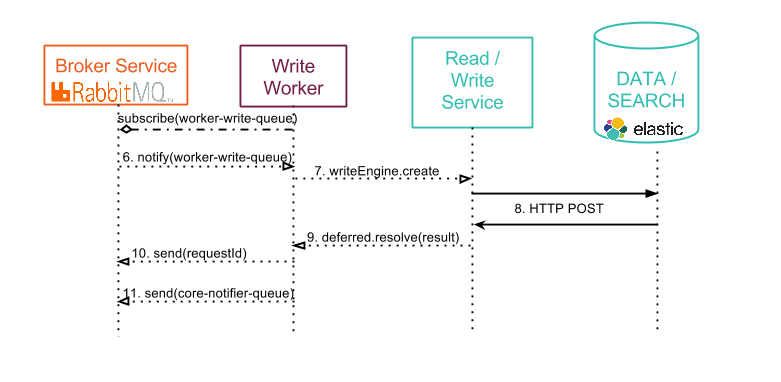
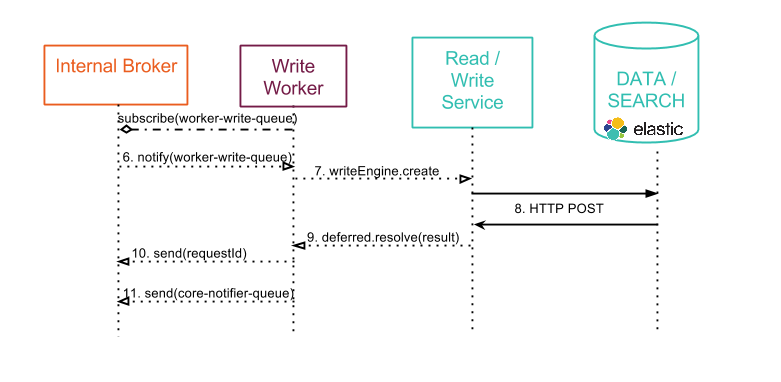
Replace RabbitMQ broker by "internal broker" references within write scenario documentation

Changed region(s): [[0.0615, 0.144, 0.2458, 0.288]]

diff --git a/docs/request_scenarios/write.md b/docs/request_scenarios/write.md
@@ -57,7 +57,7 @@ Sample message: (**note that _persist = true_**)
 
 \#3. The ```Funnel Controller``` validates the message and forward the request to the ```Write Controller```
 
-\#4. \#5. The Write Hook intercepts the request and sends it to the MQ broker. (see [Hooks Readme](../../lib/hooks/README.md) for more details about hooks)
+\#4. \#5. The Write Hook intercepts the request and sends it to the internal broker. (see [Hooks Readme](../../lib/hooks/README.md) for more details about hooks)
 
 That way Kuzzle parallelizes the processing of writing contents.
 
@@ -71,7 +71,7 @@ Detailed workflow:
 
 ![persistence_scenario_details2](../images/kuzzle_persistence_scenario_details2.png)
 
-\#6. A ```Write Worker``` is notified by the MQ broker about a new write request.
+\#6. A ```Write Worker``` is notified by the internal broker about a new write request.
 
 \#7. The worker calls the ```writeEngine service```
 
@@ -81,7 +81,7 @@ Detailed workflow:
 
 \#10. The worker sends the feedback message from ElasticSearch to the input task queue (see \#2b).
 
-\#11. The worker also sends a notification message to the MQ broker, to notify subscribing clients, if any (see step 3 below).
+\#11. The worker also sends a notification message to the internal broker, to notify subscribing clients, if any (see step 3 below).
 
 ## 3rd step: Send feedback and notify pub/sub clients
 
